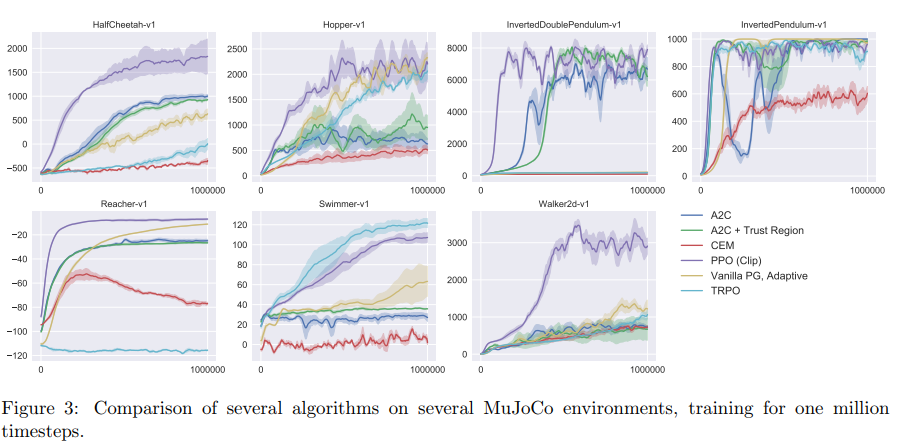
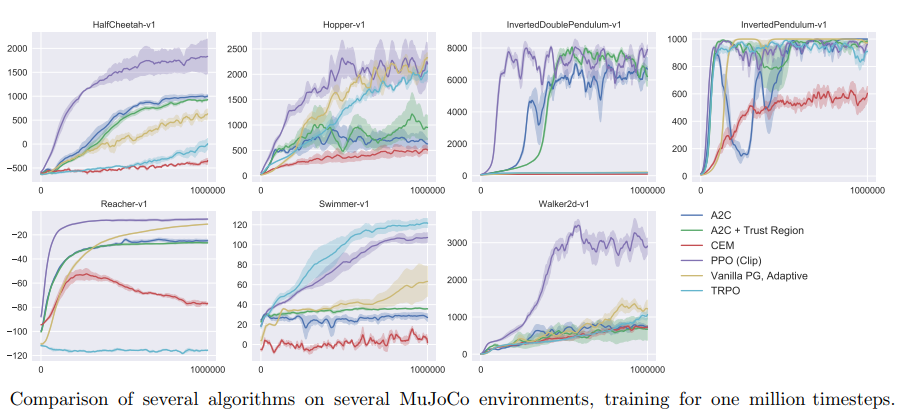
almost done with project

diff --git a/testDRLs2/report.md b/testDRLs2/report.md
@@ -1,16 +1,16 @@
-# Project report
+# Continuous Control Project Report
 
 
 
 After encountering the paper [Proximal Policy Optimization Algorithms](https://arxiv.org/pdf/1707.06347.pdf) which shows fast convergence of PPO on reacher environment, I chose to use PPO for solving the reacher environment.
 
-![1562857315785](report_images/reacherv1_ppo.png) 
+![1562857315785](report_images/reacherv1_ppo.png)
+
+						**Picture taken from  [Proximal Policy Optimization Algorithms](https://arxiv.org/pdf/1707.06347.pdf)**
 
 
 
-The implementation is based on [ShangtongZhang](https://github.com/ShangtongZhang/DeepRL) git repository and the hyper-parameters were basically untouched and met the basis explained in [PPO Hyperparameters and Ranges](https://medium.com/@aureliantactics).
-
-Actor-critic network sizes were based on the implementation of  [Jeremi Kaczmarczyk](https://github.com/jknthn/reacher-ppo.git).
+The implementation is based on [Jeremi Kaczmarczyk](https://github.com/jknthn/reacher-ppo.git) and  [ShangtongZhang](https://github.com/ShangtongZhang/DeepRL) git repository and most of the hyper-parameters were basically untouched and met the basis explained in [PPO Hyperparameters and Ranges](https://medium.com/@aureliantactics).
 
 <u>**Actor:**</u>
 
@@ -40,7 +40,7 @@ The network yields a the value of the given state:
 
  
 
-**<u>PPO implementation:</u>**
+**<u>The implementation:</u>**
 
 1. Interact with environment for 'rollout_length':
 
@@ -70,6 +70,38 @@ The network yields a the value of the given state:
 
 
 
+**<u>My Configuration:</u>**
+
+```python
+config = {
+			'pytorch': {'device': device(type='cuda', index=0)},
+			'hyperparameters': {
+				'discount_rate': 0.99,
+				'tau': 0.95,
+				'gradient_clip': 5,
+				'rollout_length': 2048,
+				'ppo_clip': 0.2,
+				'log_interval': 2048,
+				'max_steps': 100000.0,
+				'mini_batch_number': 32,
+				'entropy_coefficent': 0.01,
+				'episode_count': 150,
+				'hidden_size': None,
+				'adam_learning_rate': 0.0003,
+				'adam_epsilon': 1e-05
+				},
+            'environment': {
+            	'state_size': 33,
+            	'action_size': 4,
+            	'number_of_agents': 20
+            	}
+         }
+```
+
+
+
+
+
 The above obtained the following learning performance:
 
 ![1562857315785](report_images/hiddSizeEffect.png)
@@ -94,9 +126,21 @@ Some optional directions:
 
 
 
+To reproduce the results, install the dependencies as explained in the ```README.md``` file and then run the following commands:
+
+```bash
+$python reacher-ppo/Solution.py --numEpisodes 300 --gridSrchHidden 32 64 96 128 160 192 224 256 288
+```
+```bash
+$python reacher-ppo/Solution.py --numEpisodes 400 --gridSrchHidden 32
+```
+```bash
+$python plot_grid_search_results.py
+```
 
 
-<u>**More Sources:**</u>
+
+<u>**More Resources:**</u>
 
 
 https://arxiv.org/pdf/1506.02438.pdf

diff --git a/testDRLs2/README.md b/testDRLs2/README.md
@@ -1,0 +1,31 @@
+
+
+# Continuous Control DRL Project
+
+
+
+
+
+## Step 1: Activate the Environment
+
+
+
+## Step 2: Download the Unity Environment
+
+------
+
+For this project, you will **not** need to install Unity - this is because we have already built the environment for you, and you can download it from one of the links below. You need only select the environment that matches your operating system:
+
+### Version 1: One (1) Agent
+
+- Linux: [click here](https://s3-us-west-1.amazonaws.com/udacity-drlnd/P2/Reacher/one_agent/Reacher_Linux.zip)
+- Mac OSX: [click here](https://s3-us-west-1.amazonaws.com/udacity-drlnd/P2/Reacher/one_agent/Reacher.app.zip)
+- Windows (32-bit): [click here](https://s3-us-west-1.amazonaws.com/udacity-drlnd/P2/Reacher/one_agent/Reacher_Windows_x86.zip)
+- Windows (64-bit): [click here](https://s3-us-west-1.amazonaws.com/udacity-drlnd/P2/Reacher/one_agent/Reacher_Windows_x86_64.zip)
+
+### Version 2: Twenty (20) Agents
+
+- Linux: [click here](https://s3-us-west-1.amazonaws.com/udacity-drlnd/P2/Reacher/Reacher_Linux.zip)
+- Mac OSX: [click here](https://s3-us-west-1.amazonaws.com/udacity-drlnd/P2/Reacher/Reacher.app.zip)
+- Windows (32-bit): [click here](https://s3-us-west-1.amazonaws.com/udacity-drlnd/P2/Reacher/Reacher_Windows_x86.zip)
+- Windows (64-bit): [click here](https://s3-us-west-1.amazonaws.com/udacity-drlnd/P2/Reacher/Reacher_Windows_x86_64.zip)
